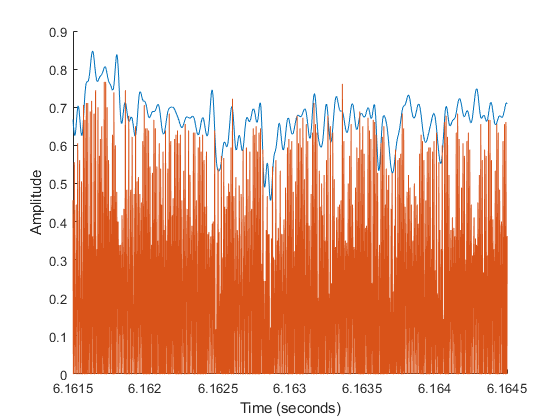
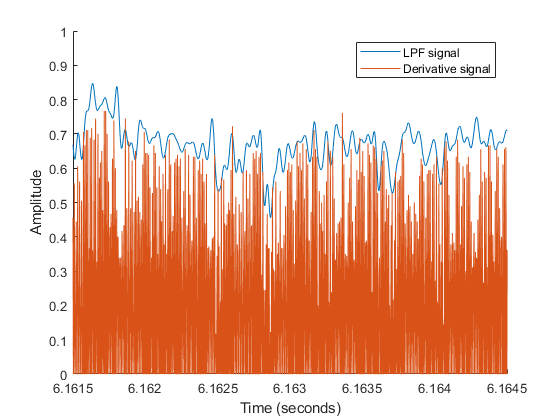
push final code

diff --git a/SDR_FM_Lab.m b/SDR_FM_Lab.m
@@ -21,7 +21,14 @@ ylabel("Amplitude")
 %% Exercise 1: Part D
 
 % Plot y_I zoomed in to see an area of frequency modulation
-figure(2); clf;
+figure(); hold on; clf;
+plot(t, y_I)
+xlim([0, t(length(t))])
+xlabel("Time (seconds)")
+ylabel("Amplitude")
+
+% Plot y_I zoomed in to see an area of frequency modulation
+figure(); clf;
 plot(t, y_I)
 % xlim([5.2043, 5.2063])
 xlim([5.2047, 5.2063])
@@ -60,11 +67,13 @@ plot(t(2:length(t)), y_I_lowpass_norm)
 plot(t(2:length(t)), y_I_deriv_nonneg_norm)
 xlabel("Time (seconds)")
 ylabel("Amplitude")
+legend(["LPF signal", "Derivative signal"])
 % xlim([0,t(length(t))])
 
 % Zoom in to a portion of the signal which illustrates how the diode followed 
 % by low pass filter tracks the envelope of the derivative FM signal
 xlim([6.1615,6.1645])
+ylim([0,1])
 
 %% Exercise 1: Part G
 
@@ -107,6 +116,13 @@ m_hat_norm_safe_norm = m_hat_norm_safe ./ (max(m_hat_norm_safe) / .1);
 
 % Plot the signal
 figure(); clf; hold on;
+plot(t(2:length(t)), m_hat);
+xlim([0,t(length(t))])
+xlabel("Time (seconds)")
+ylabel("Amplitude")
+
+% Plot the signal
+figure(); clf; hold on;
 plot(t(2:length(t)), m_hat_norm_safe_norm);
 xlabel("Time (seconds)")
 ylabel("Amplitude")
@@ -120,3 +136,6 @@ sound(m_hat_decimated, decimated_fs)
 
 % Save the final I and Q demodulated signal 
 audiowrite('Final_IQ_Demodulated_Signal.wav',m_hat_decimated,decimated_fs)
+
+figure(); hold on; clf;
+plot(fftshift(abs(fft(m_hat_decimated))))
